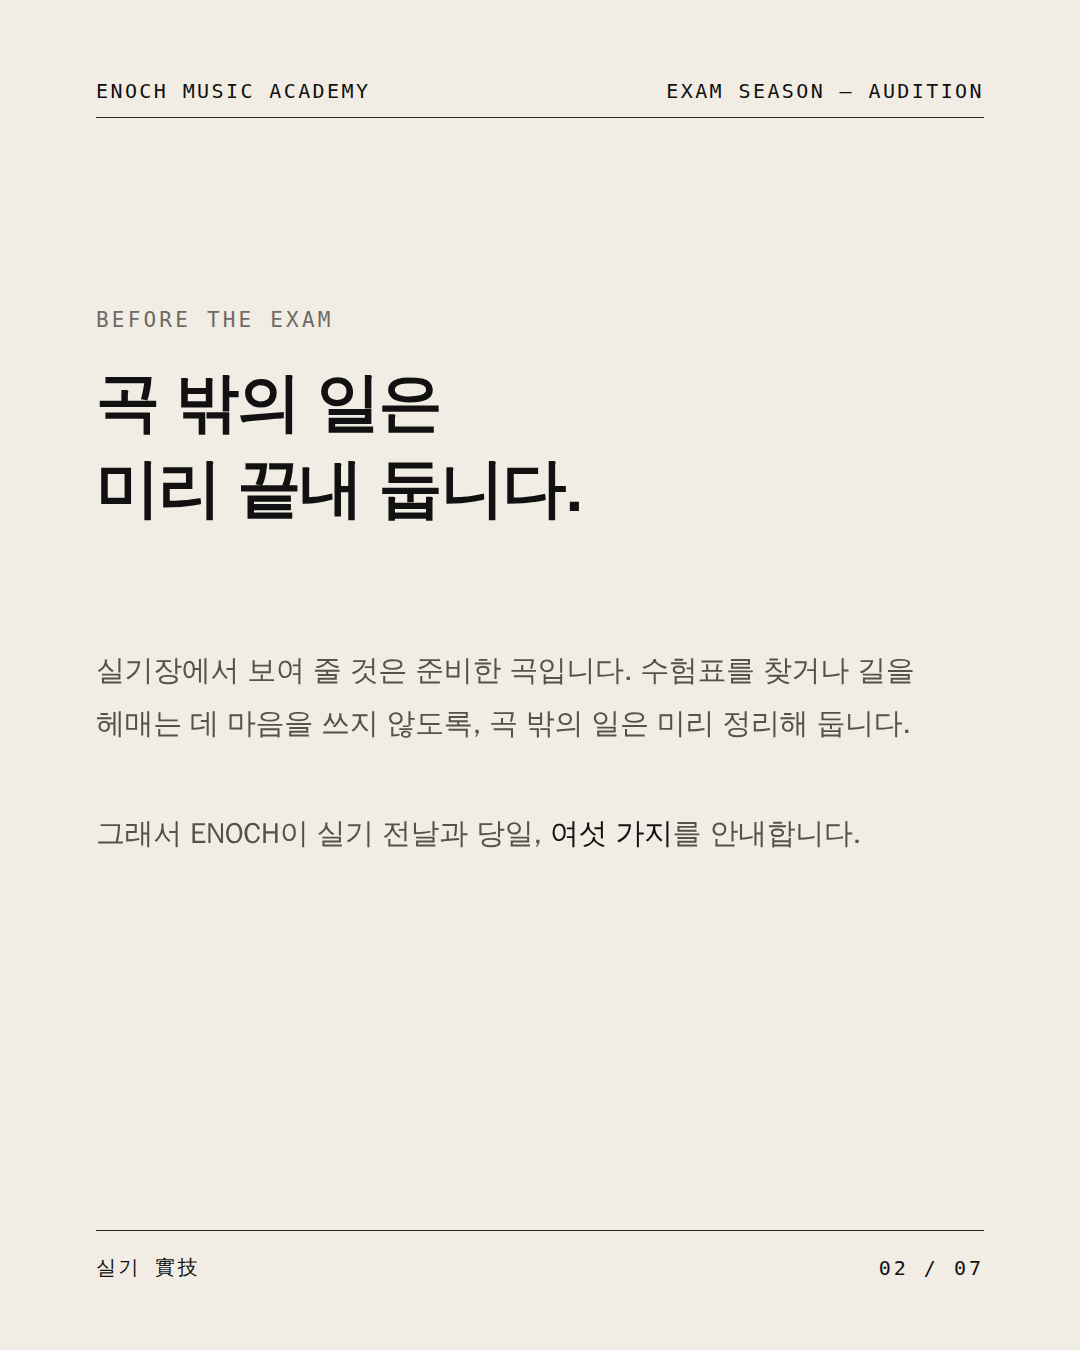
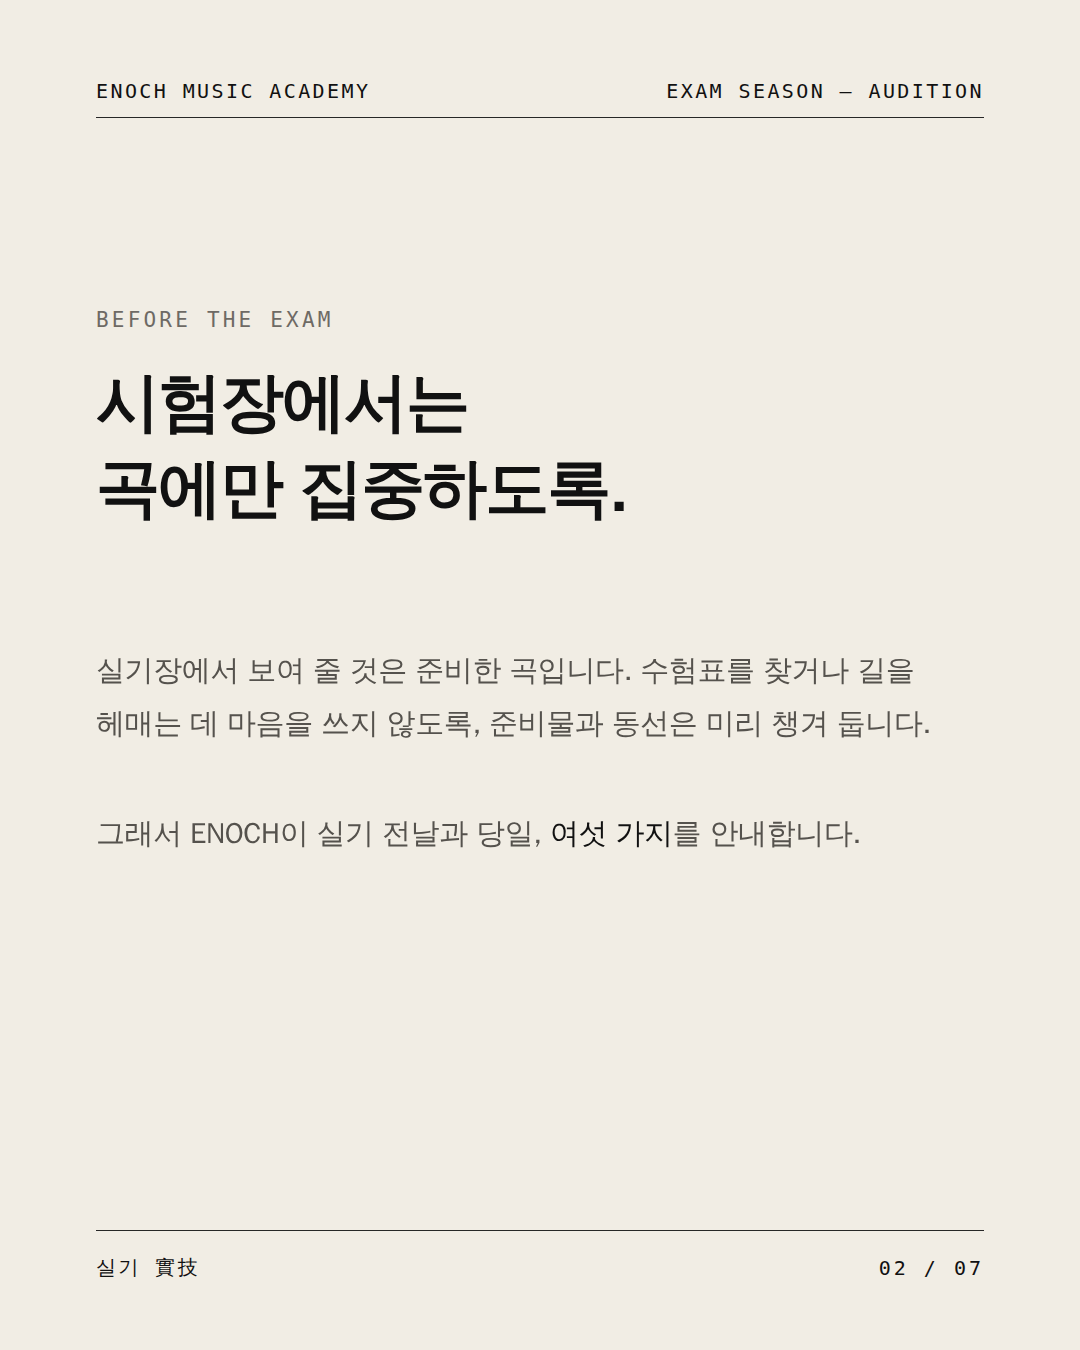
Exam checklist: clearer slide 2 title (academy request)
Claude-Session: https://claude.ai/code/session_01HGbZvgMeYrbU7mY8bwfjyb

Changed region(s): [[0.0917, 0.28, 0.5806, 0.4044], [0.4583, 0.5289, 0.8556, 0.56]]

diff --git a/output/입시_실기전날당일/preview.html b/output/입시_실기전날당일/preview.html
@@ -228,8 +228,8 @@ Day</div>
   </section>
 <section class="card layout-point theme-ivory" id="card-2">
     <div class="masthead"><span>ENOCH MUSIC ACADEMY</span><span>EXAM SEASON — AUDITION</span></div>
-    <div class="kicker">Before the Exam</div><h2 class="title">곡 밖의 일은
-미리 끝내 둡니다.</h2><div style="margin-top:56px"><p class="body">실기장에서 보여 줄 것은 준비한 곡입니다. 수험표를 찾거나 길을 헤매는 데 마음을 쓰지 않도록, 곡 밖의 일은 미리 정리해 둡니다.</p><p class="body">그래서 ENOCH이 실기 전날과 당일, <span class="em">여섯 가지</span>를 안내합니다.</p></div>
+    <div class="kicker">Before the Exam</div><h2 class="title">시험장에서는
+곡에만 집중하도록.</h2><div style="margin-top:56px"><p class="body">실기장에서 보여 줄 것은 준비한 곡입니다. 수험표를 찾거나 길을 헤매는 데 마음을 쓰지 않도록, 준비물과 동선은 미리 챙겨 둡니다.</p><p class="body">그래서 ENOCH이 실기 전날과 당일, <span class="em">여섯 가지</span>를 안내합니다.</p></div>
     <div class="colophon"><span>실기  實技</span><span class="page">02 / 07</span></div>
   </section>
 <section class="card layout-parts theme-ivory" id="card-3">

diff --git a/output/입시_실기전날당일/caption.md b/output/입시_실기전날당일/caption.md
@@ -3,7 +3,7 @@
 ## 본문
 실기를 앞둔 수험생과 학부모님께. ENOCH이 실기 전날과 당일, 학생들에게 안내하는 여섯 가지를 정리했습니다.
 
-수험표, 악보, MR, 동선, 옷차림, 컨디션. 모두 알고 있는 것이라 오히려 건너뛰기 쉽습니다. 곡 밖의 일은 미리 끝내 두고, 시험장에서는 준비한 곡에만 마음을 쓰도록.
+수험표, 악보, MR, 동선, 옷차림, 컨디션. 모두 알고 있는 것이라 오히려 건너뛰기 쉽습니다. 준비물과 동선은 미리 챙겨 두고, 시험장에서는 준비한 곡에만 집중하도록.
 
 저장해 두고, 실기 전날 한 번 더 꺼내 보세요.
 
@@ -17,7 +17,7 @@
 
 ## 대체 텍스트 (장별 한 줄)
 1. 아이보리 바탕의 타이포 표지. 위쪽에 01 수험표부터 06 컨디션까지 여섯 항목 목록, 큰 영문 EXAM DAY와 한글 제목 "실기 전날·당일", 부제 "ENOCH이 안내하는 여섯 가지", 하단 반복 텍스트 띠.
-2. 제목 "곡 밖의 일은 미리 끝내 둡니다."와 실기 전날·당일에 여섯 가지를 챙기는 이유.
+2. 제목 "시험장에서는 곡에만 집중하도록."과 실기 전날·당일에 여섯 가지를 챙기는 이유.
 3. 체크리스트 01–03, 챙길 것. 수험표, 악보, MR을 각각 왜 챙기는지 한 줄씩.
 4. 체크리스트 04–05, 확인할 것. 실기 장소까지의 동선과 불편하지 않으면서 나를 잘 보여 주는 옷차림.
 5. 검정 바탕. 체크리스트 06, 제목 "마지막 항목은 컨디션입니다."와 실기가 몸으로 치르는 시험이라는 설명.

diff --git a/output/입시_실기전날당일/review.md b/output/입시_실기전날당일/review.md
@@ -60,3 +60,4 @@
 - 수정사항 1–7 모두 반영 (03 Ticket·Score, 04 Route·Outfit, 05 둘째 문장, 캡션 첫 두 문단, 대체 텍스트 1). 참고 의견대로 01 라벨을 "CHECKLIST 01–06"으로 변경.
 - 03·04·05 재출력, compare/ 재생성. 03장에 한 단어만 남는 줄 없음 확인.
 - 최종 판정: 승인 (학원 확인 사항은 게시 전 필수 아님).
+- 원장님 요청 (2026-09-27): 2장 제목 "곡 밖의 일은 미리 끝내 둡니다." → "시험장에서는 곡에만 집중하도록." 본문·캡션 표현도 "준비물과 동선은 미리 챙겨 둡니다"로 맞춤.
